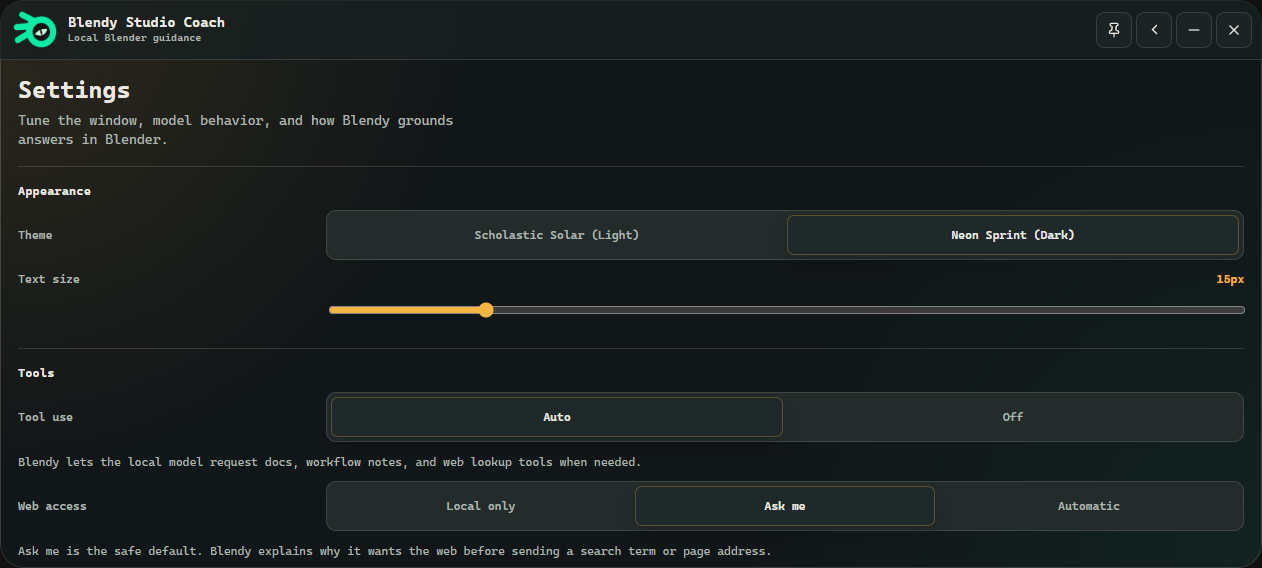
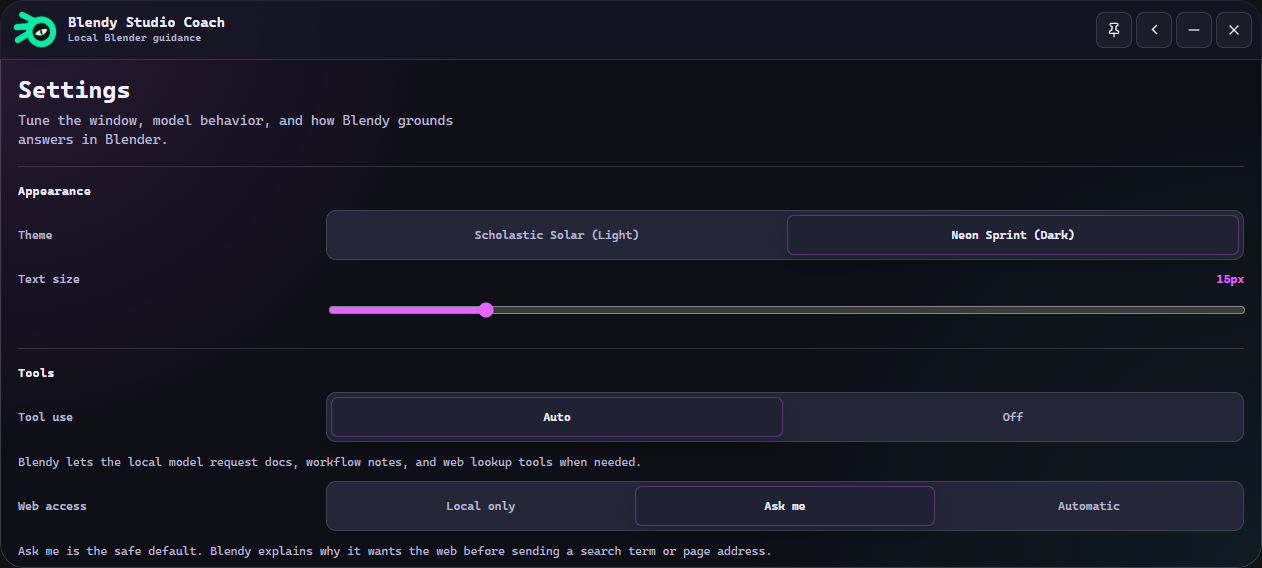
Refine Neon Sprint cyberpunk palette

diff --git a/blendy/src/styles.css b/blendy/src/styles.css
@@ -38,21 +38,21 @@
 
 :root[data-theme="sprint"] {
   color-scheme: dark;
-  --shell-bg: #111618;
-  --shell-bg-strong: #181f20;
-  --surface: #1b2324;
-  --surface-soft: #232c2b;
-  --surface-strong: #20292a;
-  --text: #ebe9e2;
-  --muted: #abb5ae;
-  --faint: #718078;
-  --border: rgba(235, 233, 226, 0.14);
-  --border-strong: rgba(244, 181, 68, 0.45);
-  --window-border: rgba(235, 233, 226, 0.18);
-  --accent: #f4b544;
-  --accent-strong: #d89826;
-  --accent-soft: rgba(244, 181, 68, 0.15);
-  --green: #20e3b2;
+  --shell-bg: #0d0e16;
+  --shell-bg-strong: #151724;
+  --surface: #1a1c2a;
+  --surface-soft: #242637;
+  --surface-strong: #202234;
+  --text: #f1f0ff;
+  --muted: #b5b7cf;
+  --faint: #777b9a;
+  --border: rgba(241, 240, 255, 0.14);
+  --border-strong: rgba(226, 103, 255, 0.5);
+  --window-border: rgba(241, 240, 255, 0.2);
+  --accent: #e267ff;
+  --accent-strong: #bd42d6;
+  --accent-soft: rgba(226, 103, 255, 0.16);
+  --green: #38e7df;
   --shadow: 0 22px 68px rgba(0, 0, 0, 0.56);
   --inner-shadow: inset 0 1px 0 rgba(255, 255, 255, 0.06);
 }
@@ -117,8 +117,8 @@ button {
 
 [data-theme="sprint"] .app-window {
   background:
-    radial-gradient(circle at 0% 0%, rgba(244, 181, 68, 0.12), transparent 34%),
-    radial-gradient(circle at 100% 100%, rgba(32, 227, 178, 0.06), transparent 38%),
+    radial-gradient(circle at 0% 0%, rgba(226, 103, 255, 0.13), transparent 34%),
+    radial-gradient(circle at 100% 100%, rgba(56, 231, 223, 0.06), transparent 38%),
     var(--shell-bg);
 }
 
@@ -321,7 +321,7 @@ button {
 }
 
 [data-theme="sprint"] .message-row.assistant .message-content {
-  border-left-color: var(--green);
+  border-left-color: var(--accent);
 }
 
 .message-content p {
@@ -366,7 +366,7 @@ button {
 
 [data-theme="sprint"] .conversation-marker span {
   background: var(--accent);
-  box-shadow: 0 0 16px rgba(244, 181, 68, 0.18);
+  box-shadow: 0 0 16px rgba(226, 103, 255, 0.2);
 }
 
 .conversation-marker strong {
@@ -633,7 +633,7 @@ button {
 [data-theme="sprint"] .context-usage-button:hover:not(:disabled),
 [data-theme="sprint"] .chat-history-button:hover:not(:disabled) {
   color: var(--accent);
-  box-shadow: 0 0 18px rgba(244, 181, 68, 0.16);
+  box-shadow: 0 0 18px rgba(226, 103, 255, 0.18);
 }
 
 .context-usage-button:disabled,
@@ -691,7 +691,7 @@ button {
 
 [data-theme="sprint"] .context-menu-bar span {
   background: var(--accent);
-  box-shadow: 0 0 14px rgba(244, 181, 68, 0.18);
+  box-shadow: 0 0 14px rgba(226, 103, 255, 0.2);
 }
 
 .context-menu-breakdown {
@@ -917,9 +917,9 @@ button {
 }
 
 [data-theme="sprint"] .send-button:not(:disabled) {
-  border-color: rgba(244, 181, 68, 0.5);
+  border-color: rgba(226, 103, 255, 0.54);
   background: var(--accent);
-  color: #2d210d;
+  color: #1a0c20;
 }
 
 .send-button:hover:not(:disabled) {
@@ -929,8 +929,8 @@ button {
 
 [data-theme="sprint"] .send-button:hover:not(:disabled) {
   background: var(--accent-strong);
-  color: #2d210d;
-  box-shadow: 0 0 0 1px rgba(244, 181, 68, 0.34), 0 0 22px rgba(244, 181, 68, 0.2);
+  color: #f9f2ff;
+  box-shadow: 0 0 0 1px rgba(226, 103, 255, 0.34), 0 0 22px rgba(226, 103, 255, 0.22);
 }
 
 .send-button:disabled {
@@ -1187,7 +1187,7 @@ button {
 }
 
 [data-theme="sprint"] .segmented-control button.active {
-  box-shadow: inset 0 0 0 1px rgba(244, 181, 68, 0.28), 0 8px 20px rgba(0, 0, 0, 0.16);
+  box-shadow: inset 0 0 0 1px rgba(226, 103, 255, 0.3), 0 8px 20px rgba(0, 0, 0, 0.16);
 }
 
 .range-setting strong {